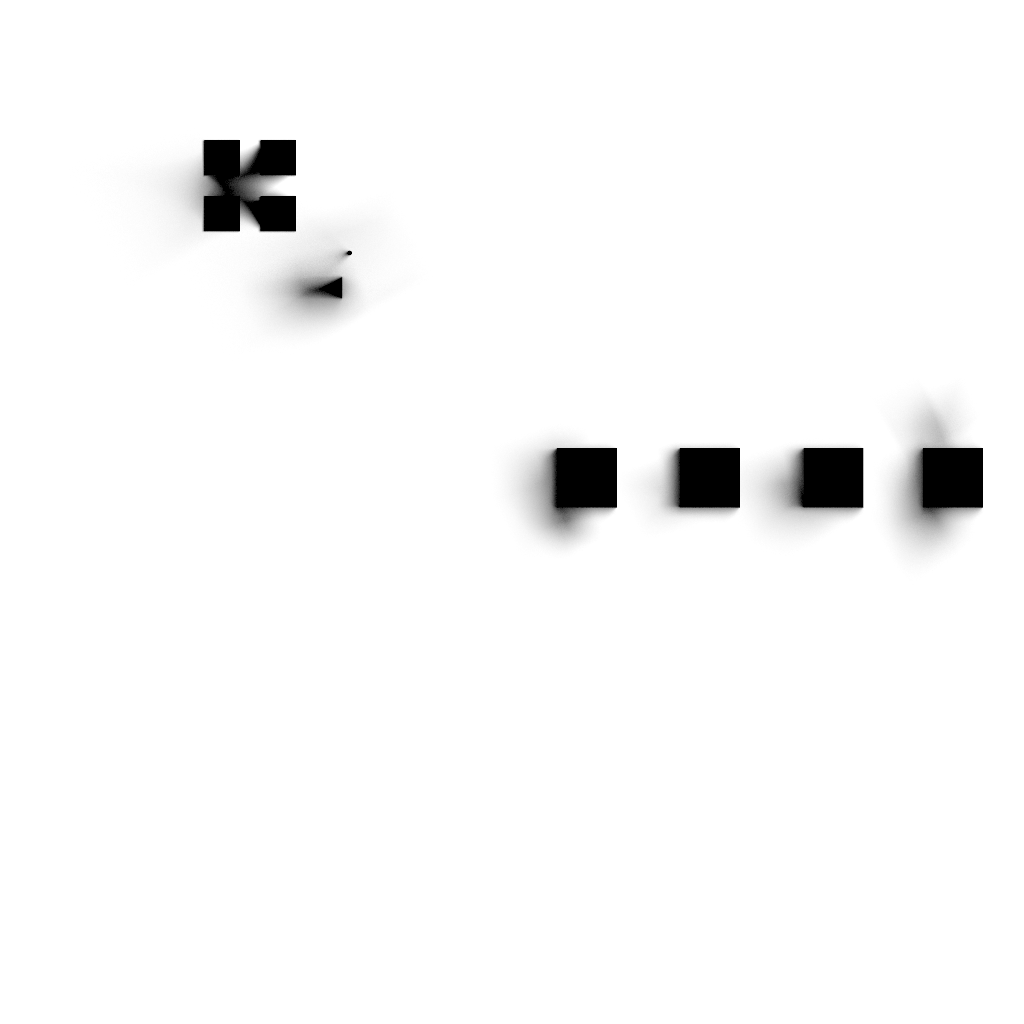
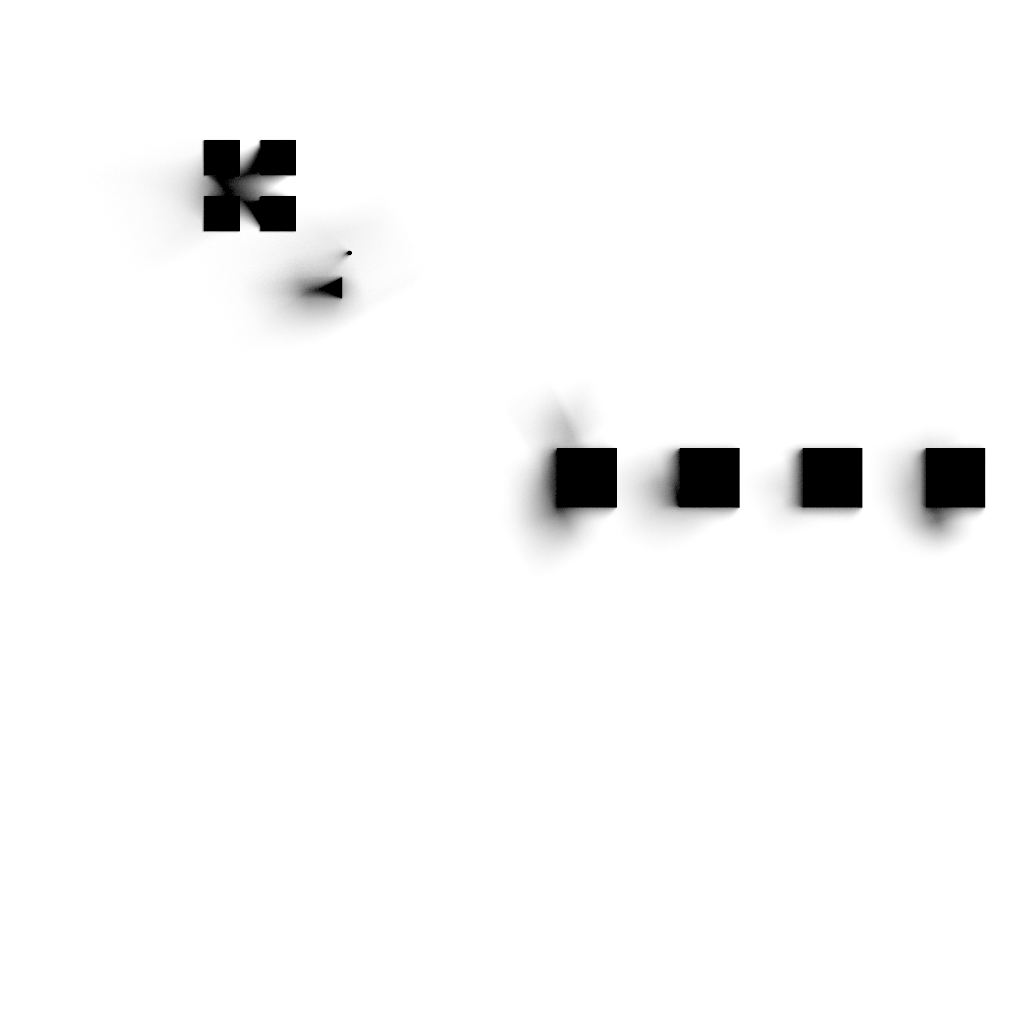
:sparkles: Information > Add areas

diff --git a/src/javascript/World/Sections/InformationSection.js b/src/javascript/World/Sections/InformationSection.js
@@ -18,11 +18,12 @@ export default class InformationSection
         this.container.updateMatrix()
 
         this.x = 0
-        this.y = - 55
-        // this.y = - 10
+        // this.y = - 55
+        this.y = - 10
 
         this.setStatic()
         this.setBaguettes()
+        this.setLinks()
         this.setTiles()
     }
 
@@ -63,6 +64,78 @@ export default class InformationSection
             shadow: { sizeX: 0.6, sizeY: 3.5, offsetZ: - 0.15, alpha: 0.35 },
             mass: 1.5,
             sleep: false
+        })
+    }
+
+    setLinks()
+    {
+        // Set up
+        this.links = {}
+        this.links.x = 1.45
+        this.links.y = - 1.5
+        this.links.halfExtents = {}
+        this.links.halfExtents.x = 1
+        this.links.halfExtents.y = 1
+        this.links.distanceBetween = 2.4
+
+        // Twitter
+        this.links.twitter = {}
+        this.links.twitter.x = this.x + this.links.x + this.links.distanceBetween * 0
+        this.links.twitter.y = this.y + this.links.y
+        this.links.twitter.href = 'https://twitter.com/bruno_simon/'
+
+        this.links.twitter.area = this.areas.add({
+            position: new THREE.Vector2(this.links.twitter.x, this.links.twitter.y),
+            halfExtents: new THREE.Vector2(this.links.halfExtents.x, this.links.halfExtents.y)
+        })
+        this.links.twitter.area.on('interact', () =>
+        {
+            window.open(this.links.twitter.href, '_blank')
+        })
+
+        // Github
+        this.links.github = {}
+        this.links.github.x = this.x + this.links.x + this.links.distanceBetween * 1
+        this.links.github.y = this.y + this.links.y
+        this.links.github.href = 'https://github.com/brunosimon/'
+
+        this.links.github.area = this.areas.add({
+            position: new THREE.Vector2(this.links.github.x, this.links.github.y),
+            halfExtents: new THREE.Vector2(this.links.halfExtents.x, this.links.halfExtents.y)
+        })
+        this.links.github.area.on('interact', () =>
+        {
+            window.open(this.links.github.href, '_blank')
+        })
+
+        // Linkedin
+        this.links.linkedin = {}
+        this.links.linkedin.x = this.x + this.links.x + this.links.distanceBetween * 2
+        this.links.linkedin.y = this.y + this.links.y
+        this.links.linkedin.href = 'https://www.linkedin.com/in/simonbruno77/'
+
+        this.links.linkedin.area = this.areas.add({
+            position: new THREE.Vector2(this.links.linkedin.x, this.links.linkedin.y),
+            halfExtents: new THREE.Vector2(this.links.halfExtents.x, this.links.halfExtents.y)
+        })
+        this.links.linkedin.area.on('interact', () =>
+        {
+            window.open(this.links.linkedin.href, '_blank')
+        })
+
+        // Mail
+        this.links.mail = {}
+        this.links.mail.x = this.x + this.links.x + this.links.distanceBetween * 3
+        this.links.mail.y = this.y + this.links.y
+        this.links.mail.href = 'mailto:simon.bruno.77@gmail.com'
+
+        this.links.mail.area = this.areas.add({
+            position: new THREE.Vector2(this.links.mail.x, this.links.mail.y),
+            halfExtents: new THREE.Vector2(this.links.halfExtents.x, this.links.halfExtents.y)
+        })
+        this.links.mail.area.on('interact', () =>
+        {
+            window.open(this.links.mail.href, '_blank')
         })
     }
 

diff --git a/src/javascript/World/index.js b/src/javascript/World/index.js
@@ -158,23 +158,23 @@ export default class
             debug: this.debugFolder
         }
 
-        // Intro
-        this.sections.intro = new IntroSection({
-            ...options
-        })
-        this.container.add(this.sections.intro.container)
+        // // Intro
+        // this.sections.intro = new IntroSection({
+        //     ...options
+        // })
+        // this.container.add(this.sections.intro.container)
 
-        // Crossroads
-        this.sections.crossroads = new CrossroadsSection({
-            ...options
-        })
-        this.container.add(this.sections.crossroads.container)
+        // // Crossroads
+        // this.sections.crossroads = new CrossroadsSection({
+        //     ...options
+        // })
+        // this.container.add(this.sections.crossroads.container)
 
-        // Projects
-        this.sections.projects = new ProjectsSection({
-            ...options
-        })
-        this.container.add(this.sections.projects.container)
+        // // Projects
+        // this.sections.projects = new ProjectsSection({
+        //     ...options
+        // })
+        // this.container.add(this.sections.projects.container)
 
         // Projects
         this.sections.information = new InformationSection({
